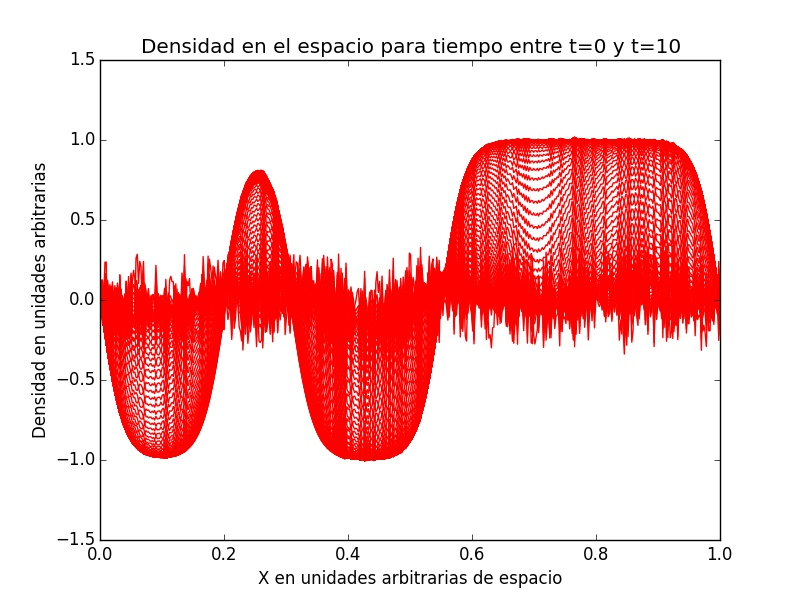
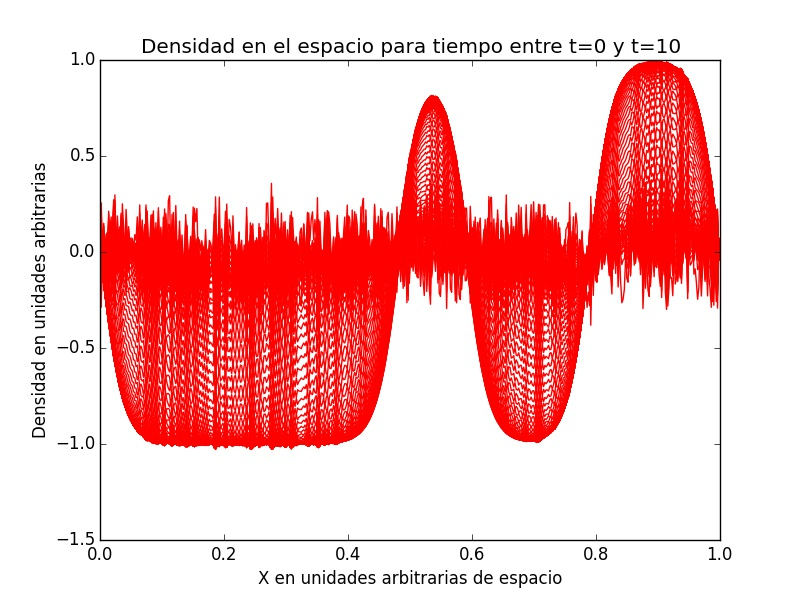
gif

diff --git a/p_2.py b/p_2.py
@@ -11,7 +11,7 @@ import locale
 Crank Nicolson.
 dn/dt = gamma * d2n/dx2 + mu* n - mu * n^3 '''
 
-np.random.seed(3)
+np.random.seed(10)
 
 def poner_condiciones_iniciales(S, N, h):
     '''llena la fila 0 de la matriz con la condición inicial,
